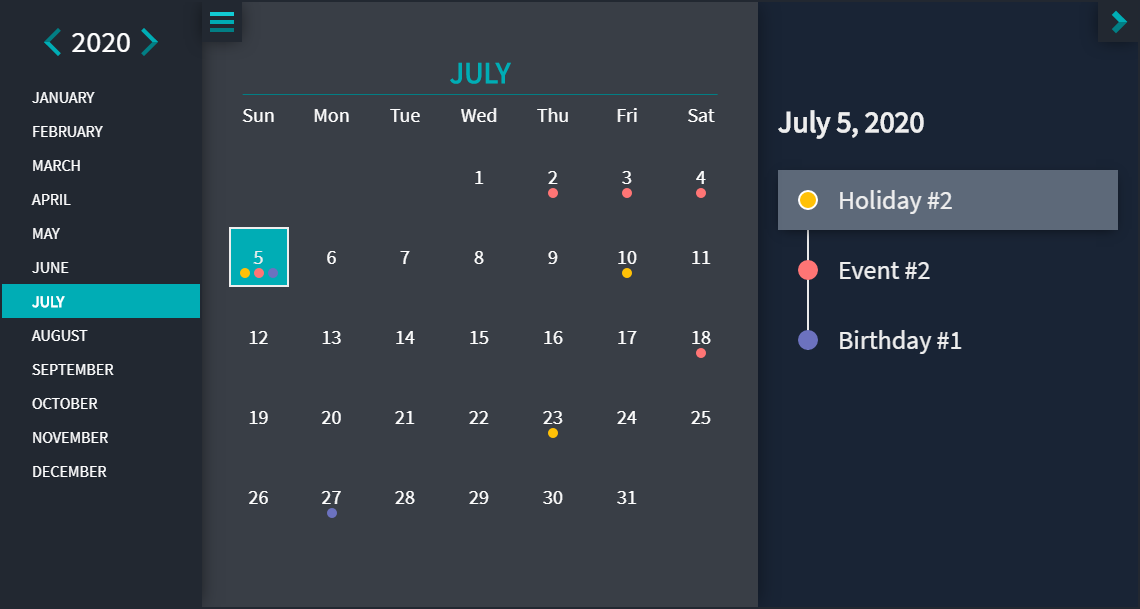
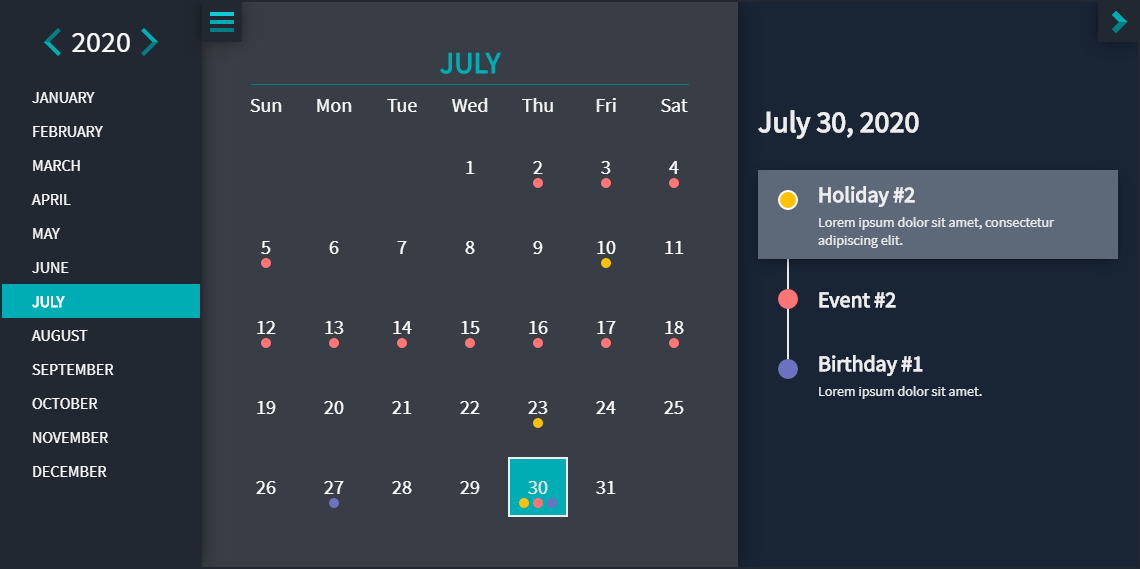
[UPDATE] Demo & images

diff --git a/demo/demo.js b/demo/demo.js
@@ -77,9 +77,8 @@ $(document).ready(function() {
         calendarEvents: [ {
             id: "d8jai7s",
             name: "Author's Birthday",
-            description: "Lorem ipsum dolor sit amet, consectetur adipiscing elit, sed do eiusmod tempor incididunt ut labore et dolore magna aliqua. Odio tempor orci dapibus ultrices in.",
+            description: "Author's note: Thank you for using EvoCalendar! :)",
             date: "February/15/1999",
-            time: [ "6:00 AM", "12: AM" ],
             type: "birthday",
             everyYear: !0
         }, {
@@ -93,7 +92,7 @@ $(document).ready(function() {
         }, {
             id: "in8bha4",
             name: "Holiday #2",
-            description: "Lorem ipsum dolor sit amet, consectetur adipiscing elit, sed do eiusmod tempor incididunt ut labore et dolore magna aliqua. Odio tempor orci dapibus ultrices in.",
+            description: "Lorem ipsum dolor sit amet, consectetur adipiscing elit.",
             date: today,
             type: "holiday"
         }, {
@@ -204,7 +203,7 @@ function showSettingsSample(a) {
         break;
 
       case "calendarEvents":
-        c = '<br><span class="green">// calendarEvents</span><br>' + '$(<span class="red">\'#calendar\'</span>).<span class="yellow">evoCalendar</span>(<span class="violet">\'calendarEvents\'</span>, {<br>' + "&#8194;&#8194;&#8194;&#8194;&#8194;<span class=\"violet\">'calendarEvents'</span>: [<br>" + "&#8194;&#8194;&#8194;&#8194;&#8194;&#8194;&#8194;&#8194;&#8194;&#8194;{<br>" + '&#8194;&#8194;&#8194;&#8194;&#8194;&#8194;&#8194;&#8194;&#8194;&#8194;&#8194;&#8194;&#8194;&#8194;&#8194;<span class="blue">id</span>: <span class="red">"4hducye"</span>, <span class="green">// Event\'s id (required, for removing event)</span><br>' + '&#8194;&#8194;&#8194;&#8194;&#8194;&#8194;&#8194;&#8194;&#8194;&#8194;&#8194;&#8194;&#8194;&#8194;&#8194;<span class="blue">name</span>: <span class="red">"Today\'s Event"</span>, <span class="green">// Name of event</span><br>' + '&#8194;&#8194;&#8194;&#8194;&#8194;&#8194;&#8194;&#8194;&#8194;&#8194;&#8194;&#8194;&#8194;&#8194;&#8194;<span class="blue">date</span>: <span class="blue">new</span> <span class="yellow">Date</span>(), <span class="green">// Date of event</span><br>' + '&#8194;&#8194;&#8194;&#8194;&#8194;&#8194;&#8194;&#8194;&#8194;&#8194;&#8194;&#8194;&#8194;&#8194;&#8194;<span class="blue">type</span>: <span class="red">"holiday"</span>, <span class="green">// Type of event (event|holiday|birthday)</span><br>' + '&#8194;&#8194;&#8194;&#8194;&#8194;&#8194;&#8194;&#8194;&#8194;&#8194;&#8194;&#8194;&#8194;&#8194;&#8194;<span class="blue">everyYear</span>: <span class="blue">true</span> <span class="green">// Event is every year (optional)</span><br>' + "&#8194;&#8194;&#8194;&#8194;&#8194;&#8194;&#8194;&#8194;&#8194;&#8194;}<br>" + "&#8194;&#8194;&#8194;&#8194;&#8194;]<br>" + "});" + "<br> ";
+        c = '<br><span class="green">// calendarEvents</span><br>' + '$(<span class="red">\'#calendar\'</span>).<span class="yellow">evoCalendar</span>(<span class="violet">\'calendarEvents\'</span>, {<br>' + "&#8194;&#8194;&#8194;&#8194;&#8194;<span class=\"violet\">'calendarEvents'</span>: [<br>" + "&#8194;&#8194;&#8194;&#8194;&#8194;&#8194;&#8194;&#8194;&#8194;&#8194;{<br>" + '&#8194;&#8194;&#8194;&#8194;&#8194;&#8194;&#8194;&#8194;&#8194;&#8194;&#8194;&#8194;&#8194;&#8194;&#8194;<span class="blue">id</span>: <span class="red">"4hducye"</span>, <span class="green">// Event\'s id (required, for removing event)</span><br>' + '&#8194;&#8194;&#8194;&#8194;&#8194;&#8194;&#8194;&#8194;&#8194;&#8194;&#8194;&#8194;&#8194;&#8194;&#8194;<span class="blue">description</span>: <span class="red">"Lorem ipsum dolor sit amet.."</span>, <span class="green">// Description of event (optional)</span><br>' + '&#8194;&#8194;&#8194;&#8194;&#8194;&#8194;&#8194;&#8194;&#8194;&#8194;&#8194;&#8194;&#8194;&#8194;&#8194;<span class="blue">badge</span>: <span class="red">"1-day event"</span> <span class="green">// Event badge (optional)</span><br>' + '&#8194;&#8194;&#8194;&#8194;&#8194;&#8194;&#8194;&#8194;&#8194;&#8194;&#8194;&#8194;&#8194;&#8194;&#8194;<span class="blue">date</span>: <span class="blue">new</span> <span class="yellow">Date</span>(), <span class="green">// Date of event</span><br>' + '&#8194;&#8194;&#8194;&#8194;&#8194;&#8194;&#8194;&#8194;&#8194;&#8194;&#8194;&#8194;&#8194;&#8194;&#8194;<span class="blue">type</span>: <span class="red">"holiday"</span>, <span class="green">// Type of event (event|holiday|birthday)</span><br>' + '&#8194;&#8194;&#8194;&#8194;&#8194;&#8194;&#8194;&#8194;&#8194;&#8194;&#8194;&#8194;&#8194;&#8194;&#8194;<span class="blue">color</span>: <span class="red">"#63d867"</span> <span class="green">// Event custom color (optional)</span><br>' + '&#8194;&#8194;&#8194;&#8194;&#8194;&#8194;&#8194;&#8194;&#8194;&#8194;&#8194;&#8194;&#8194;&#8194;&#8194;<span class="blue">everyYear</span>: <span class="blue">true</span> <span class="green">// Event is every year (optional)</span><br>' + "&#8194;&#8194;&#8194;&#8194;&#8194;&#8194;&#8194;&#8194;&#8194;&#8194;}<br>" + "&#8194;&#8194;&#8194;&#8194;&#8194;]<br>" + "});" + "<br> ";
     }
     $("[data-settings]").removeClass("active");
     $('[data-settings="' + a + '"]').addClass("active");
@@ -248,7 +247,7 @@ function showMethodSample(a) {
         break;
 
       case "addCalendarEvent":
-        c = '<br><span class="green">// addCalendarEvent</span><br>' + '$(<span class="red">\'#calendar\'</span>).<span class="yellow">evoCalendar</span>(<span class="violet">\'addCalendarEvent\'</span>, {<br>' + '&#8194;&#8194;&#8194;&#8194;&#8194;<span class="blue">id</span>: <span class="red">\'kNybja6\'</span>,<br>' + '&#8194;&#8194;&#8194;&#8194;&#8194;<span class="blue">name</span>: <span class="red">\'Mom\\\'s Birthday\'</span>,<br>' + '&#8194;&#8194;&#8194;&#8194;&#8194;<span class="blue">date</span>: <span class="red">\'May 27, 2020\'</span>,<br>' + '&#8194;&#8194;&#8194;&#8194;&#8194;<span class="blue">type</span>: <span class="red">\'birthday\'</span><br>' + "});" + '<br><span class="green">// add multiple events</span><br>' + '$(<span class="red">\'#calendar\'</span>).<span class="yellow">evoCalendar</span>(<span class="violet">\'addCalendarEvent\'</span>, [<br>' + "&#8194;&#8194;&#8194;&#8194;&#8194;{<br>" + '&#8194;&#8194;&#8194;&#8194;&#8194;&#8194;&#8194;&#8194;&#8194;&#8194;<span class="blue">id</span>: <span class="red">\'kNybja6\'</span>,<br>' + '&#8194;&#8194;&#8194;&#8194;&#8194;&#8194;&#8194;&#8194;&#8194;&#8194;<span class="blue">name</span>: <span class="red">\'Mom\\\'s Birthday\'</span>,<br>' + '&#8194;&#8194;&#8194;&#8194;&#8194;&#8194;&#8194;&#8194;&#8194;&#8194;<span class="blue">date</span>: <span class="red">\'May 27, 1965\'</span>,<br>' + '&#8194;&#8194;&#8194;&#8194;&#8194;&#8194;&#8194;&#8194;&#8194;&#8194;<span class="blue">type</span>: <span class="red">\'birthday\'</span><br>' + '&#8194;&#8194;&#8194;&#8194;&#8194;&#8194;&#8194;&#8194;&#8194;&#8194;<span class="blue">everyYear</span>: <span class="blue">true</span> <span class="green">// optional</span><br>' + "&#8194;&#8194;&#8194;&#8194;&#8194;},<br>" + "&#8194;&#8194;&#8194;&#8194;&#8194;{<br>" + '&#8194;&#8194;&#8194;&#8194;&#8194;&#8194;&#8194;&#8194;&#8194;&#8194;<span class="blue">id</span>: <span class="red">\'asDf87L\'</span>,<br>' + '&#8194;&#8194;&#8194;&#8194;&#8194;&#8194;&#8194;&#8194;&#8194;&#8194;<span class="blue">name</span>: <span class="red">\'Graduation Day!\'</span>,<br>' + '&#8194;&#8194;&#8194;&#8194;&#8194;&#8194;&#8194;&#8194;&#8194;&#8194;<span class="blue">date</span>: <span class="red">\'March 21, 2020\'</span>,<br>' + '&#8194;&#8194;&#8194;&#8194;&#8194;&#8194;&#8194;&#8194;&#8194;&#8194;<span class="blue">type</span>: <span class="red">\'event\'</span><br>' + "&#8194;&#8194;&#8194;&#8194;&#8194;}<br>" + "]);" + "<br> ";
+        c = '<br><span class="green">// addCalendarEvent</span><br>' + '$(<span class="red">\'#calendar\'</span>).<span class="yellow">evoCalendar</span>(<span class="violet">\'addCalendarEvent\'</span>, {<br>' + '&#8194;&#8194;&#8194;&#8194;&#8194;<span class="blue">id</span>: <span class="red">\'kNybja6\'</span>,<br>' + '&#8194;&#8194;&#8194;&#8194;&#8194;<span class="blue">name</span>: <span class="red">\'Mom\\\'s Birthday\'</span>,<br>' + '&#8194;&#8194;&#8194;&#8194;&#8194;<span class="blue">description</span>: <span class="red">"Lorem ipsum dolor sit.."</span><br>' + '&#8194;&#8194;&#8194;&#8194;&#8194;<span class="blue">date</span>: <span class="red">\'May 27, 2020\'</span>,<br>' + '&#8194;&#8194;&#8194;&#8194;&#8194;<span class="blue">type</span>: <span class="red">\'birthday\'</span><br>' + "});" + '<br><span class="green">// add multiple events</span><br>' + '$(<span class="red">\'#calendar\'</span>).<span class="yellow">evoCalendar</span>(<span class="violet">\'addCalendarEvent\'</span>, [<br>' + "&#8194;&#8194;&#8194;&#8194;&#8194;{<br>" + '&#8194;&#8194;&#8194;&#8194;&#8194;&#8194;&#8194;&#8194;&#8194;&#8194;<span class="blue">id</span>: <span class="red">\'kNybja6\'</span>,<br>' + '&#8194;&#8194;&#8194;&#8194;&#8194;&#8194;&#8194;&#8194;&#8194;&#8194;<span class="blue">name</span>: <span class="red">\'Mom\\\'s Birthday\'</span>,<br>' + '&#8194;&#8194;&#8194;&#8194;&#8194;&#8194;&#8194;&#8194;&#8194;&#8194;<span class="blue">date</span>: <span class="red">\'May 27, 1965\'</span>,<br>' + '&#8194;&#8194;&#8194;&#8194;&#8194;&#8194;&#8194;&#8194;&#8194;&#8194;<span class="blue">type</span>: <span class="red">\'birthday\'</span><br>' + '&#8194;&#8194;&#8194;&#8194;&#8194;&#8194;&#8194;&#8194;&#8194;&#8194;<span class="blue">everyYear</span>: <span class="blue">true</span> <span class="green">// optional</span><br>' + "&#8194;&#8194;&#8194;&#8194;&#8194;},<br>" + "&#8194;&#8194;&#8194;&#8194;&#8194;{<br>" + '&#8194;&#8194;&#8194;&#8194;&#8194;&#8194;&#8194;&#8194;&#8194;&#8194;<span class="blue">id</span>: <span class="red">\'asDf87L\'</span>,<br>' + '&#8194;&#8194;&#8194;&#8194;&#8194;&#8194;&#8194;&#8194;&#8194;&#8194;<span class="blue">name</span>: <span class="red">\'Graduation Day!\'</span>,<br>' + '&#8194;&#8194;&#8194;&#8194;&#8194;&#8194;&#8194;&#8194;&#8194;&#8194;<span class="blue">date</span>: <span class="red">\'March 21, 2020\'</span>,<br>' + '&#8194;&#8194;&#8194;&#8194;&#8194;&#8194;&#8194;&#8194;&#8194;&#8194;<span class="blue">type</span>: <span class="red">\'event\'</span><br>' + "&#8194;&#8194;&#8194;&#8194;&#8194;}<br>" + "]);" + "<br> ";
         break;
 
       case "removeCalendarEvent":

diff --git a/index.html b/index.html
@@ -338,8 +338,10 @@ $(<span class="red">'#calendar'</span>).<span class="yellow">evoCalendar</span>(
         {
             <span class="red">id</span>: <span class="red">"4hducye"</span>, <span class="green">// Event's id (required, for removing event)</span>
             <span class="red">name</span>: <span class="red">"Today's Event"</span>, <span class="green">// Name of event</span>
+            <span class="red">description</span>: <span class="red">"Lorem ipsum dolor sit amet.."</span>, <span class="green">// Description of event (optional)</span>
             <span class="red">date</span>: <span class="blue">new</span> <span class="yellow">Date</span>(), <span class="green">// Date of event</span>
             <span class="red">type</span>: <span class="red">"holiday"</span>, <span class="green">// Type of event (event|holiday|birthday)</span>
+            <span class="red">color</span>: <span class="blue">"#63d867"</span> <span class="green">// Event custom color (optional)</span>
             <span class="red">everyYear</span>: <span class="blue">true</span> <span class="green">// Event is every year (optional)</span>
         }
     ]
